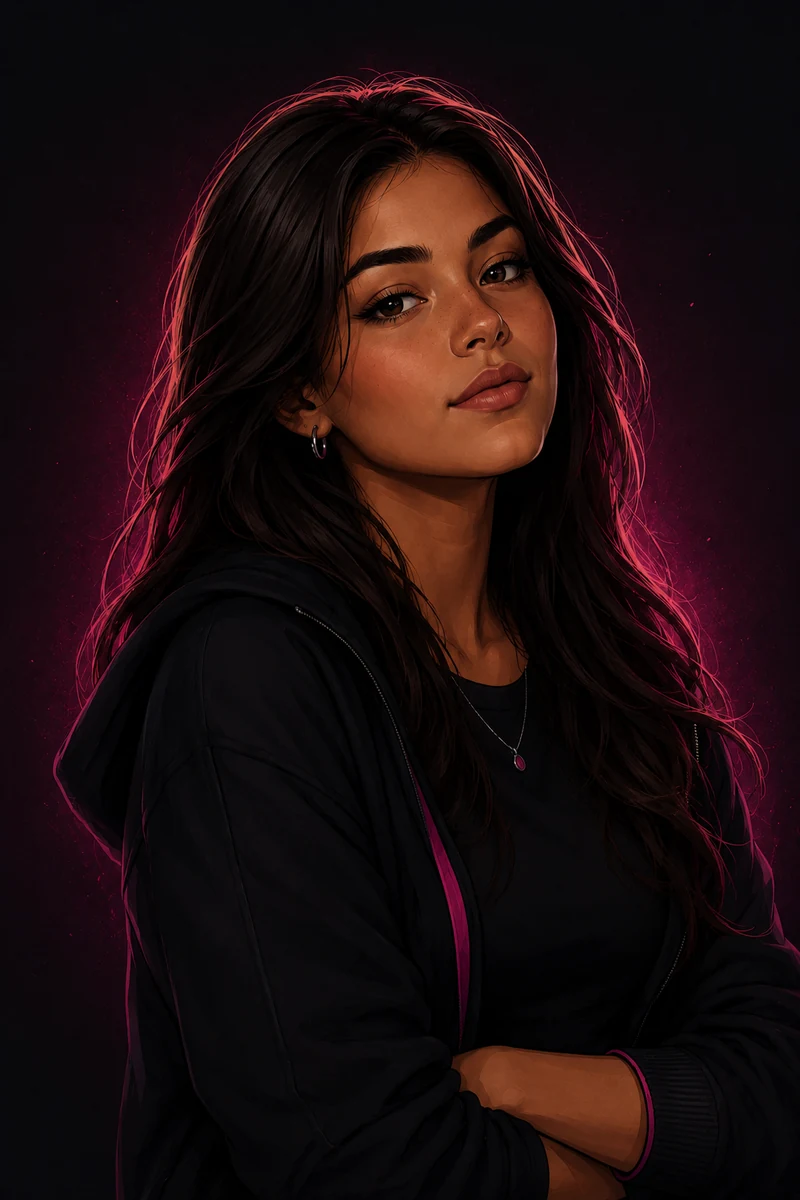
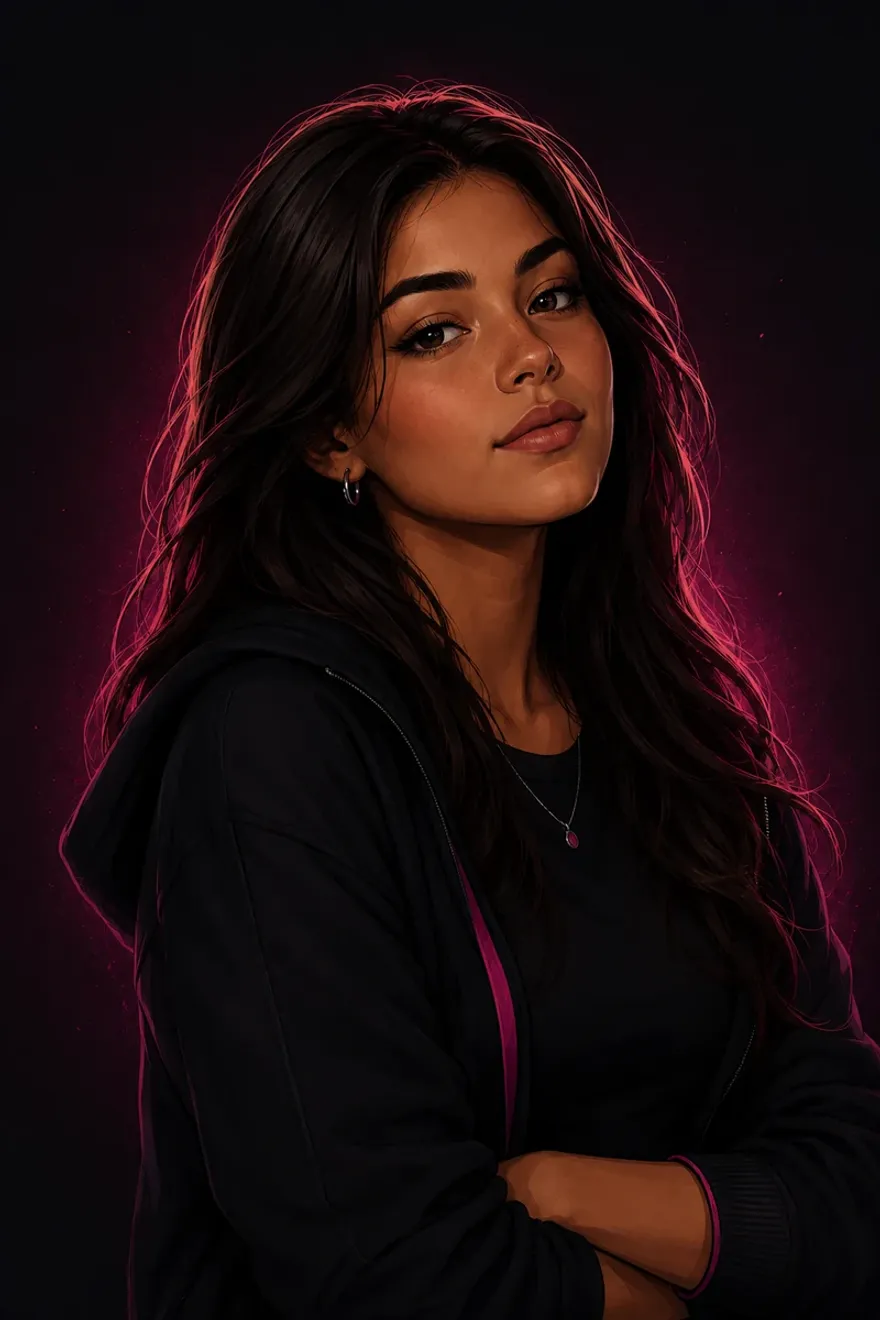
perf+a11y: patty.webp otimizada (70->43KB), cache 30d em assets estáticos, btn-nav com gradiente da marca
- Imagem da Patty redimensionada para 880px (2x do tamanho exibido)
- Cache-control de 30 dias para /brand/**, og-scancrush.png e favicon
- Botão da navbar unificado com o gradiente do CTA primário (resolve o único
  apontamento de contraste restante no desktop)

diff --git a/scancrush/nuxt.config.ts b/scancrush/nuxt.config.ts
@@ -71,6 +71,9 @@ export default defineNuxtConfig({
     routeRules: {
       '/_nuxt/**': { headers: { 'cache-control': 'public, max-age=31536000, immutable' } },
       '/fonts/**': { headers: { 'cache-control': 'public, max-age=31536000, immutable' } },
+      '/brand/**': { headers: { 'cache-control': 'public, max-age=2592000' } },
+      '/og-scancrush.png': { headers: { 'cache-control': 'public, max-age=2592000' } },
+      '/favicon.svg': { headers: { 'cache-control': 'public, max-age=2592000' } },
     },
   },
 

diff --git a/scancrush/assets/css/main.css b/scancrush/assets/css/main.css
@@ -223,7 +223,7 @@ body::after {
 
 .btn-nav {
   padding: 10px 22px;
-  background: var(--pink);
+  background: linear-gradient(135deg, var(--pink), #D40060);
   color: white;
   border-radius: 100px;
   font-size: 13px;
